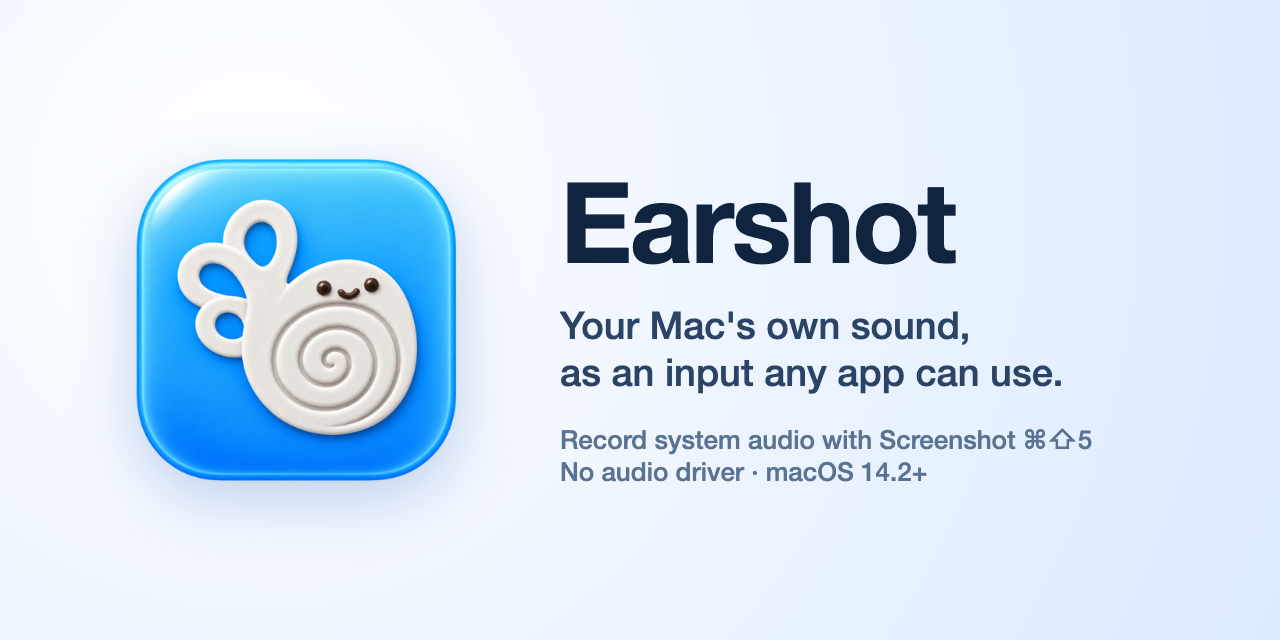
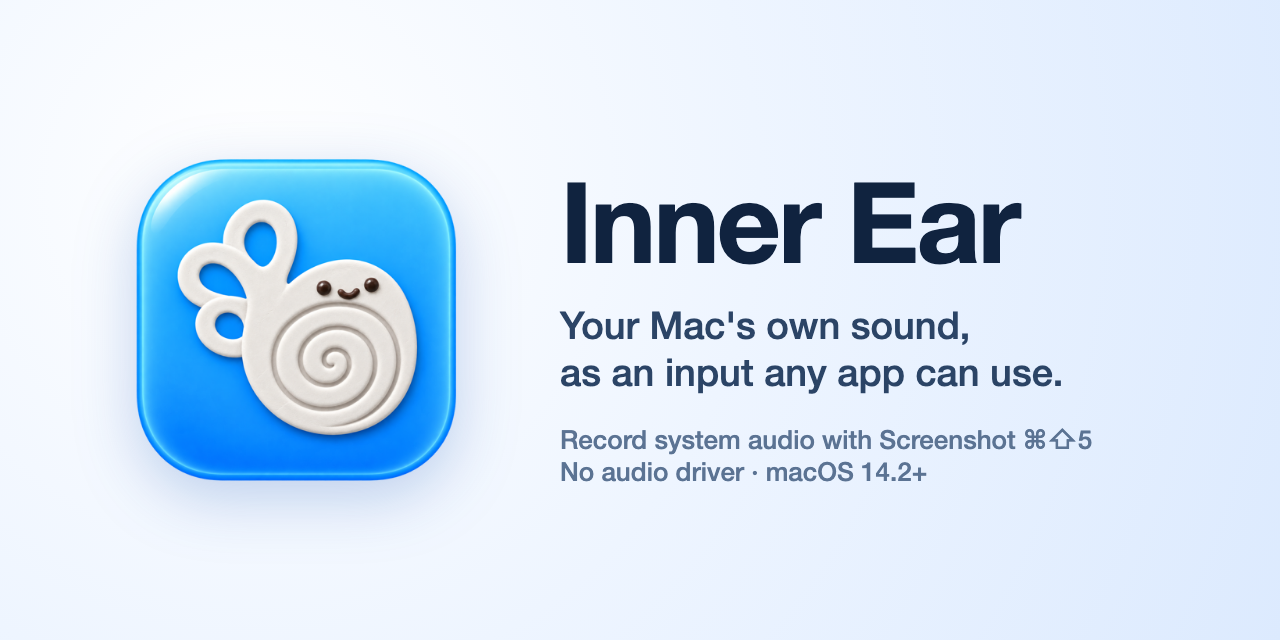
Rename Earshot to Inner Ear
Broaden the pitch beyond Screenshot: the device works for any app with a
microphone picker. Bundle ID is now arrow7000.innerear.

Changed region(s): [[0.4375, 0.2812, 0.8125, 0.4375]]

diff --git a/Sources/main.swift b/Sources/main.swift
@@ -1,4 +1,4 @@
-// Earshot: exposes the system audio mix as a public input device ("System Audio")
+// Inner Ear: exposes the system audio mix as a public input device ("System Audio")
 // using a Core Audio process tap wrapped in an aggregate device. Runs as a LaunchAgent.
 // The aggregate contains only the tap (no real sub-devices), so it is input-only and
 // never shows up as an output.
@@ -6,7 +6,7 @@ import Foundation
 import CoreAudio
 import AudioToolbox
 
-let aggregateUID = "arrow7000.earshot.device"
+let aggregateUID = "arrow7000.innerear.device"
 let aggregateName = "System Audio"
 let system = AudioObjectID(kAudioObjectSystemObject)
 

diff --git a/docs/social-preview.html b/docs/social-preview.html
@@ -14,7 +14,7 @@
 </style>
 <img src="icon.png">
 <div>
-  <h1>Earshot</h1>
+  <h1>Inner Ear</h1>
   <p>Your Mac's own sound,<br>as an input any app can use.</p>
   <div class="meta">Record system audio with Screenshot ⌘⇧5<br>No audio driver · macOS 14.2+</div>
 </div>

diff --git a/README.md b/README.md
@@ -1,10 +1,12 @@
-<p align="center"><img src="docs/icon.png" width="160" alt="Earshot icon"></p>
+<p align="center"><img src="docs/icon.png" width="160" alt="Inner Ear icon"></p>
 
-<h1 align="center">Earshot</h1>
+<h1 align="center">Inner Ear</h1>
 
-**Record system audio with macOS Screenshot (⌘⇧5). No audio driver needed.**
+<p align="center"><b>Your Mac's own sound, as an input any app can use. No audio driver needed.</b></p>
 
-The built-in Screenshot app can only record from a microphone. Earshot adds an input device called **System Audio** that carries whatever your Mac is playing, so you can pick it as the "microphone" and your screen recordings include desktop audio.
+Most Mac apps can't hear what your Mac is playing: unless they've specifically built in system-audio capture, all they can record from is microphones. Inner Ear adds an input device called **System Audio** that carries whatever your Mac is playing, so anything with a microphone picker can use it.
+
+The headline use: the built-in Screenshot app (⌘⇧5) can finally record screen recordings *with* desktop audio. It also works for QuickTime, Audacity, browser apps, transcription tools, ffmpeg and more (see [Caveats](#caveats) for permissions).
 
 - No virtual audio driver (BlackHole, Soundflower), no Multi-Output Device, no sudo
 - Your output stays untouched: volume keys, AirPods and speakers all keep working
@@ -19,12 +21,12 @@ The built-in Screenshot app can only record from a microphone. Earshot adds an i
 ## Install
 
 ```sh
-git clone https://github.com/Arrow7000/earshot.git
-cd earshot
+git clone https://github.com/Arrow7000/inner-ear.git
+cd inner-ear
 ./install.sh
 ```
 
-macOS will ask whether Earshot may record system audio. Click **Allow**.
+macOS will ask whether Inner Ear may record system audio. Click **Allow**.
 
 Then press **⌘⇧5**, open **Options**, and under **Microphone** pick **System Audio**. Screenshot remembers the choice, so you only do this once.
 
@@ -36,9 +38,9 @@ Then press **⌘⇧5**, open **Options**, and under **Microphone** pick **System
 
 ## How it works
 
-macOS 14.2 added [Core Audio process taps](https://developer.apple.com/documentation/coreaudio/capturing-system-audio-with-core-audio-taps), an official API for capturing the system audio mix. Apps normally use a tap privately, inside their own process. Earshot instead wraps a global tap in a **public aggregate device**, which makes it visible to every app as an ordinary input device.
+macOS 14.2 added [Core Audio process taps](https://developer.apple.com/documentation/coreaudio/capturing-system-audio-with-core-audio-taps), an official API for capturing the system audio mix. Apps normally use a tap privately, inside their own process. Inner Ear instead wraps a global tap in a **public aggregate device**, which makes it visible to every app as an ordinary input device.
 
-Earshot runs as a LaunchAgent. It holds the device open and otherwise does nothing: no audio is processed unless something is recording from the device.
+Inner Ear runs as a LaunchAgent. It holds the device open and otherwise does nothing: no audio is processed unless something is recording from the device.
 
 The device contains only the tap, so it's input-only: it never shows up as an output, and it keeps working as you switch between speakers, headphones and AirPods.
 
@@ -47,12 +49,12 @@ The device contains only the tap, so it's input-only: it never shows up as an ou
 - **Other apps need System Audio Recording permission.** Screenshot is exempt (at least on macOS 26), but any other app reading System Audio must itself be allowed to record system audio. Apps that support this (e.g. Chrome) will ask the first time; just click Allow. Apps that don't (e.g. command-line tools like ffmpeg) silently get silence: add them, or the terminal running them, under System Settings → Privacy & Security → Screen & System Audio Recording → **System Audio Recording Only** (+). Note that the screen-recording list above it doesn't count.
 - **This relies on observed behavior.** Screenshot being able to read the device without its own permission isn't documented by Apple. A future macOS update could change it.
 - **System audio only.** Picking System Audio means your mic isn't recorded.
-- **Rebuilding re-prompts.** Earshot is ad-hoc signed, so macOS treats each rebuild as a new app and asks for permission again.
+- **Rebuilding re-prompts.** Inner Ear is ad-hoc signed, so macOS treats each rebuild as a new app and asks for permission again.
 
 ## Troubleshooting
 
-- **Device missing?** Check `~/Library/Logs/Earshot.log` and `launchctl print gui/$(id -u)/arrow7000.earshot`. Apps that were open while Earshot (re)started may need relaunching to see the device.
-- **Recording is silent?** Make sure both Earshot *and the app you're recording with* are allowed under System Settings → Privacy & Security → Screen & System Audio Recording → System Audio Recording Only. To get the prompt again, run `tccutil reset AudioCapture arrow7000.earshot` then `./install.sh`.
+- **Device missing?** Check `~/Library/Logs/InnerEar.log` and `launchctl print gui/$(id -u)/arrow7000.innerear`. Apps that were open while Inner Ear (re)started may need relaunching to see the device.
+- **Recording is silent?** Make sure both Inner Ear *and the app you're recording with* are allowed under System Settings → Privacy & Security → Screen & System Audio Recording → System Audio Recording Only. To get the prompt again, run `tccutil reset AudioCapture arrow7000.innerear` then `./install.sh`.
 
 ## Prior art
 
